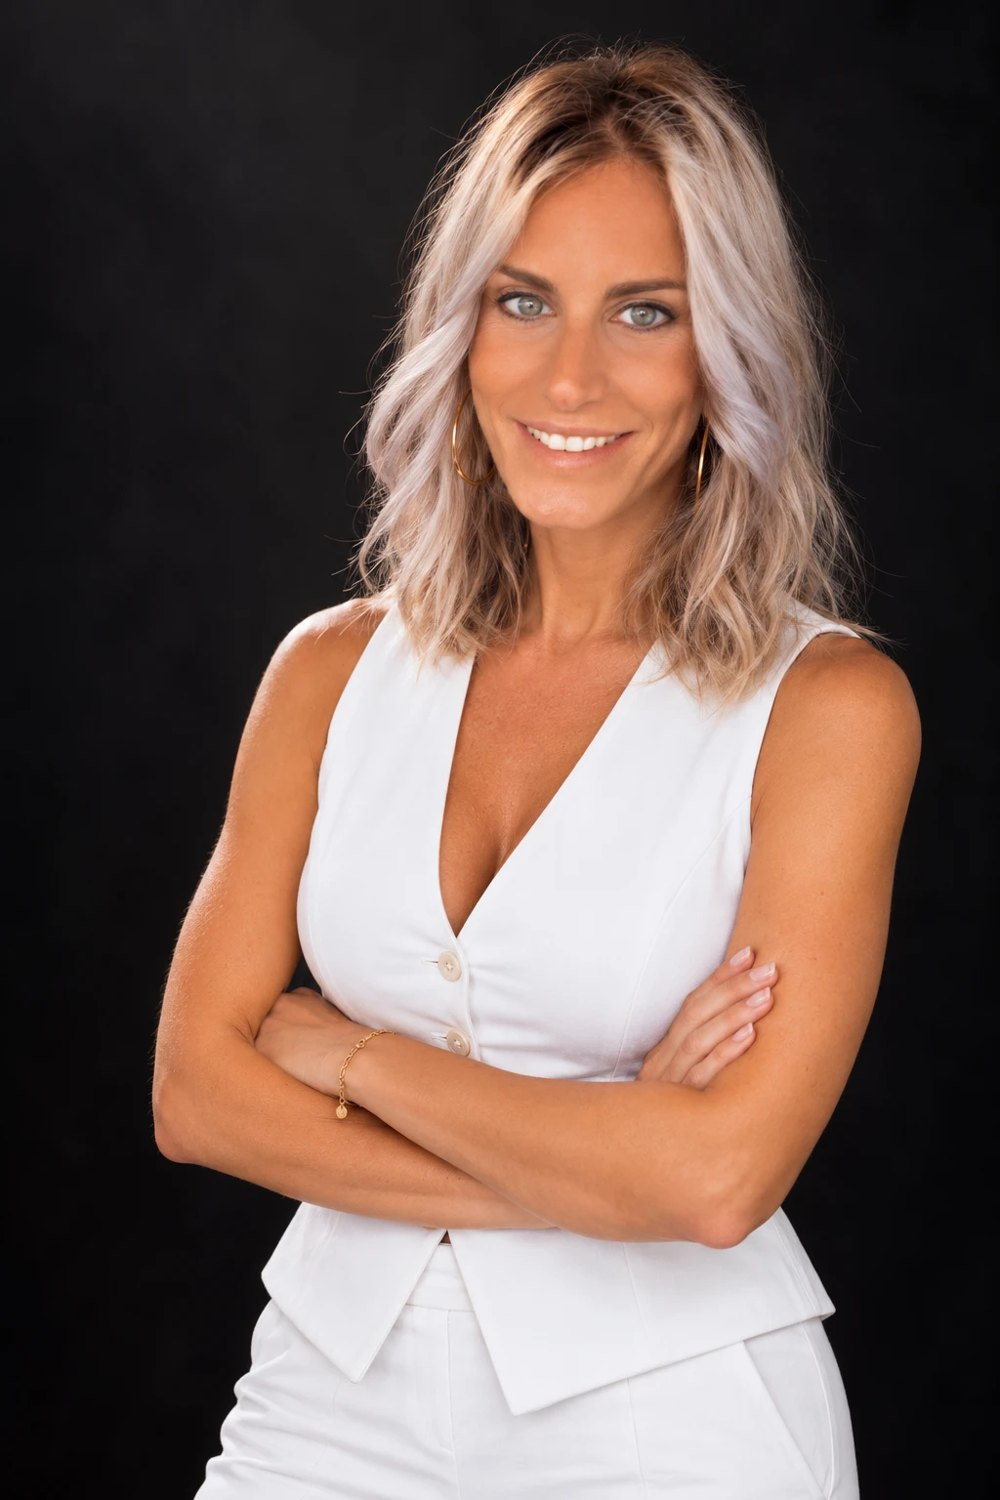
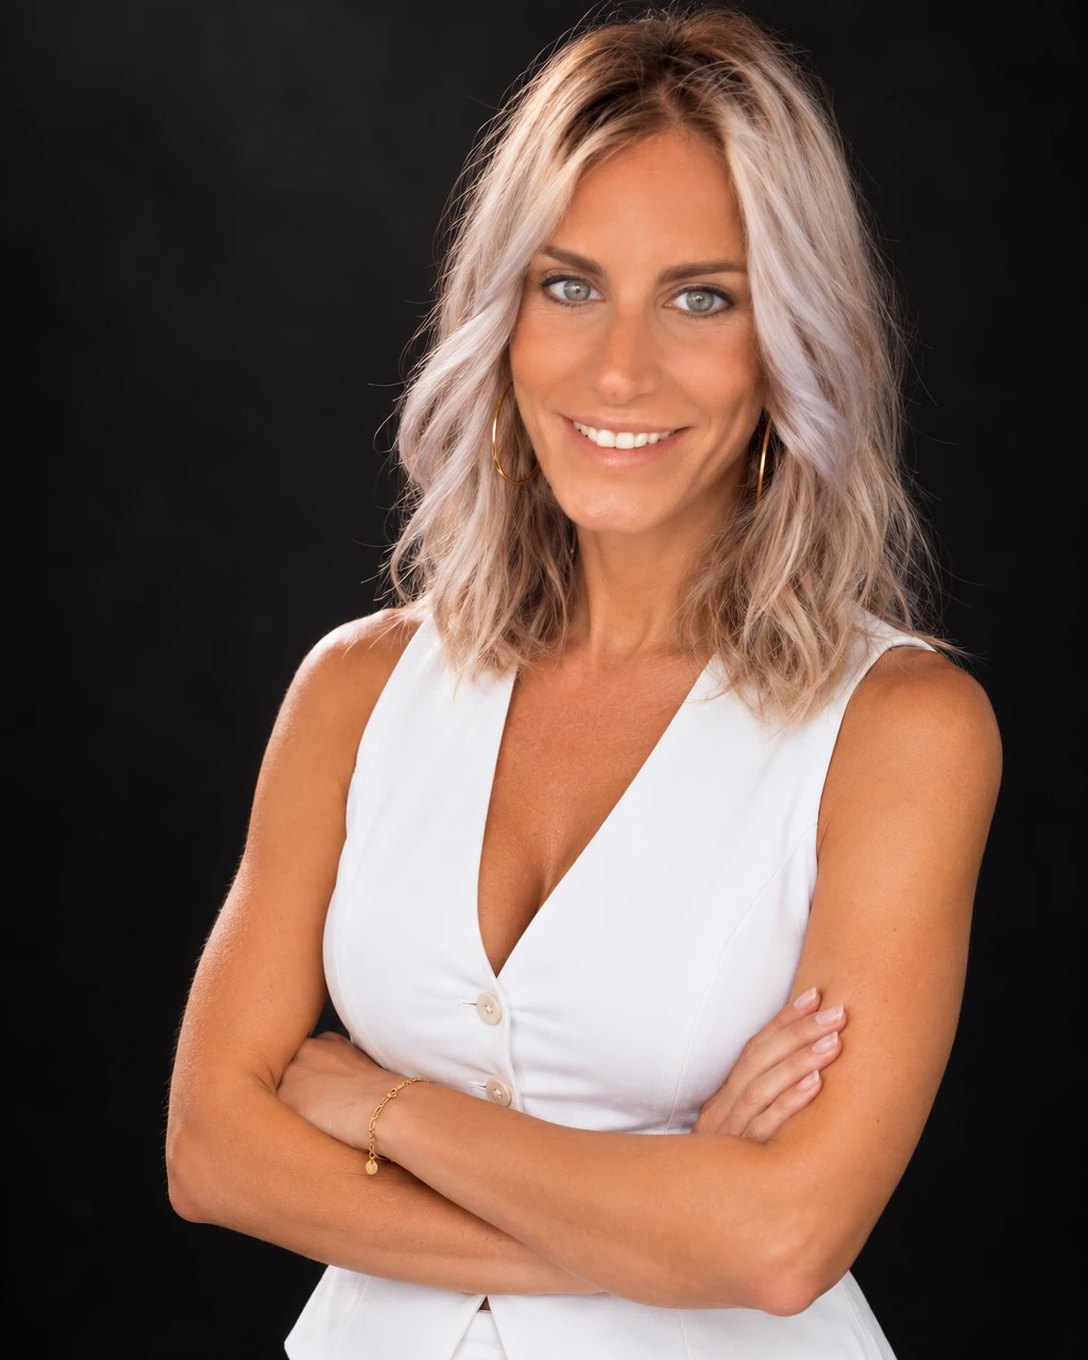
Web: recuperar el formato original de Sobre mi y recortar la foto nueva a 4:5

diff --git a/index.html b/index.html
@@ -140,7 +140,7 @@
   .principios li { padding: 14px 0; border-bottom: 1px solid var(--linea); display: flex; gap: 18px; font-size: 16px; }
   .principios .mono { color: var(--oliva); font-size: 13px; padding-top: 2px; }
   .sobre-izq { display: flex; flex-direction: column; }
-  .sobre-foto { width: 100%; aspect-ratio: 4 / 3; object-fit: cover; object-position: center 22%; }
+  .sobre-foto { width: 100%; aspect-ratio: 4 / 3; object-fit: cover; object-position: center 18%; }
   .trayectoria { background: var(--tinta); color: var(--hueso); padding: 8px 32px; }
   .tray-fila { display: grid; grid-template-columns: 1fr; gap: 4px; padding: 20px 0; border-bottom: 1px solid var(--linea-osc); }
   .tray-fila:last-child { border-bottom: 0; }
@@ -369,7 +369,7 @@
     <div class="wrap">
       <div class="sobre">
         <div class="sobre-izq">
-        <img class="sobre-foto" src="img/almudena-sobre-mi.jpg" alt="Almudena Gázquez" width="1000" height="1500" loading="lazy">
+        <img class="sobre-foto" src="img/almudena-sobre-mi.jpg" alt="Almudena Gázquez" width="544" height="680" loading="lazy">
         <div class="trayectoria">
           <div class="tray-fila tray-grande">
             <span class="label">Crecimiento de la empresa en esos 10 años</span>
